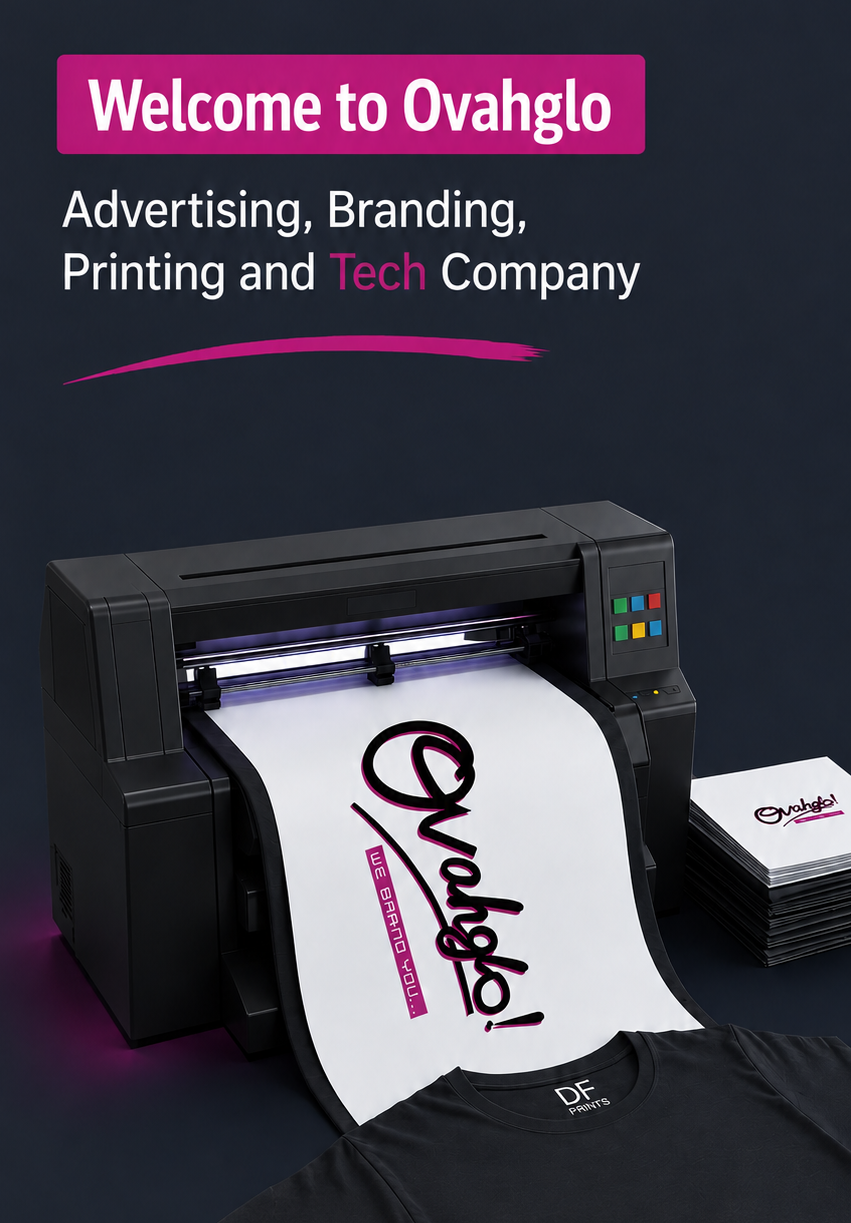
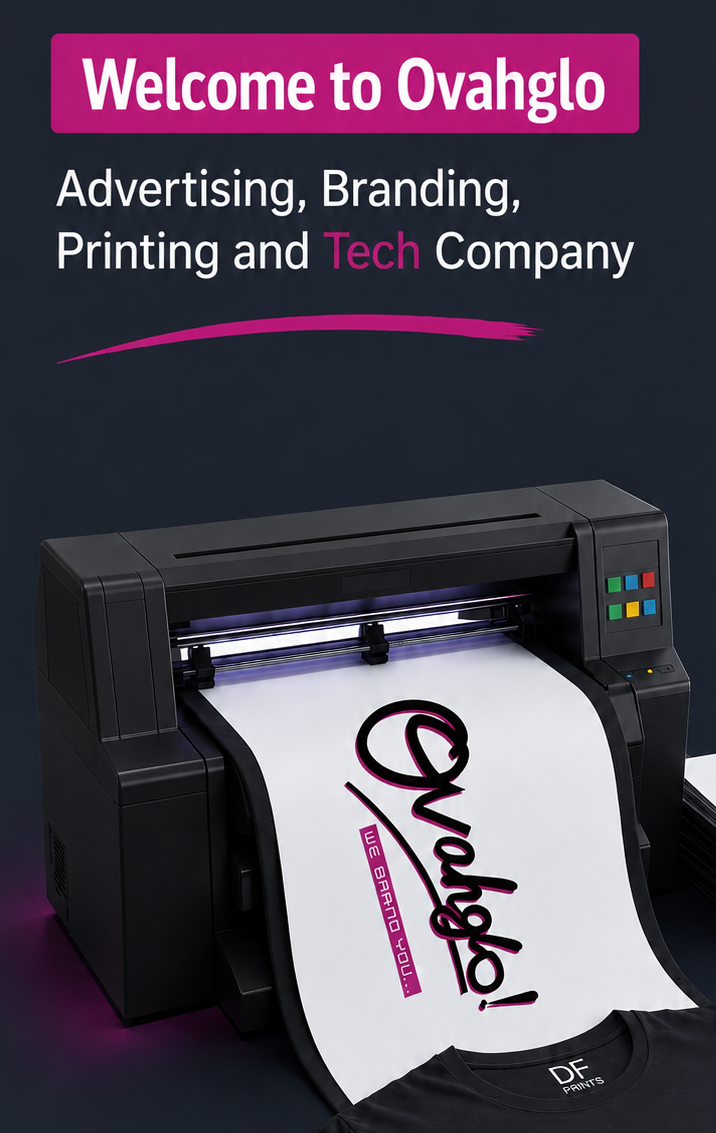
mobile2

diff --git a/src/components/MobileSlider.jsx b/src/components/MobileSlider.jsx
@@ -2,10 +2,10 @@ import React, { useState, useEffect } from 'react';
 import Slider from 'react-slick';
 
 // Import your media (1 video and 3 images)
-import video1 from '../assets/our work/mobilebanner.png';  // Video imports
-import image1 from '../assets/our work/mobilebanner.png'; // Image imports
-import image2 from '../assets/our work/mobilebanner.png';
-import image3 from '../assets/our work/mobilebanner.png';
+import video1 from '../assets/our work/mobilebanner1.png';  // Video imports
+import image1 from '../assets/our work/mobilebanner1.png'; // Image imports
+import image2 from '../assets/our work/mobilebanner1.png';
+import image3 from '../assets/our work/mobilebanner1.png';
 
 const sliderData = [
   {

diff --git a/src/pages/Home.jsx b/src/pages/Home.jsx
@@ -40,7 +40,8 @@ export default function Home() {
     fetchPosts();
   }, []);
   return (
-    <div className='bg-slate-700' >
+    // <div className='bg-slate-700' >
+    <div className='bg-slate-700 overflow-x-hidden w-full'>
 
       {/* <Hero/> */}
       <SliderContainer/>
